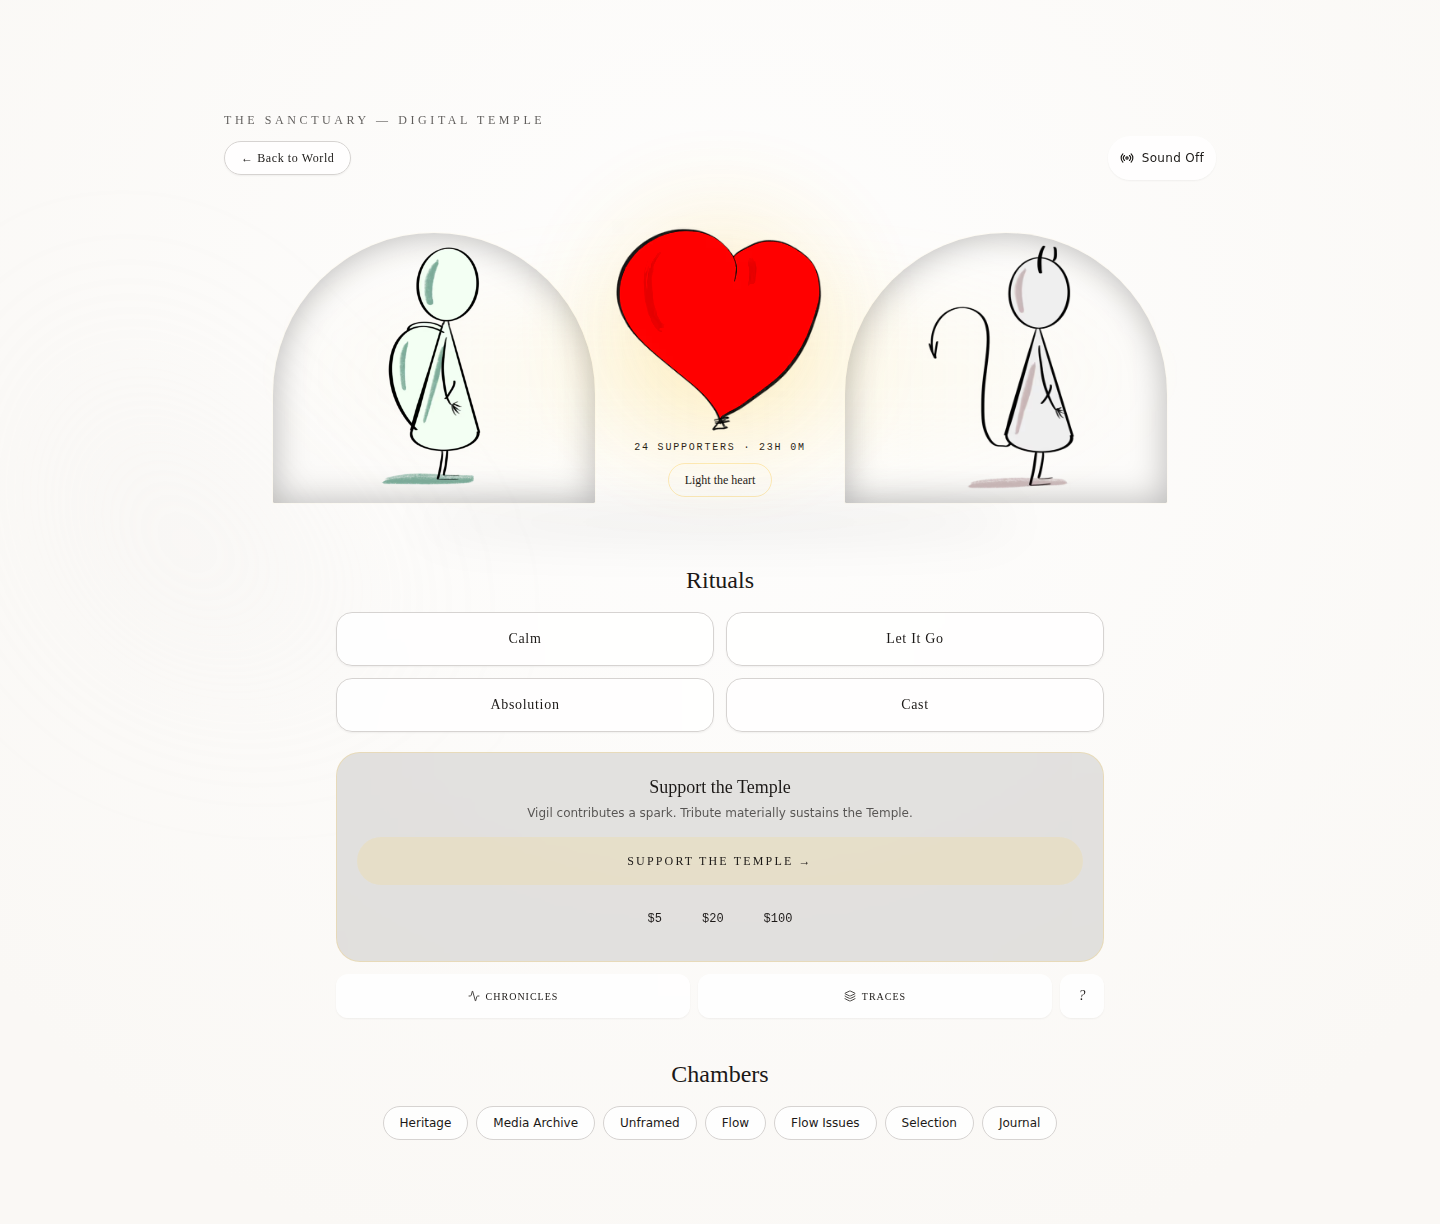
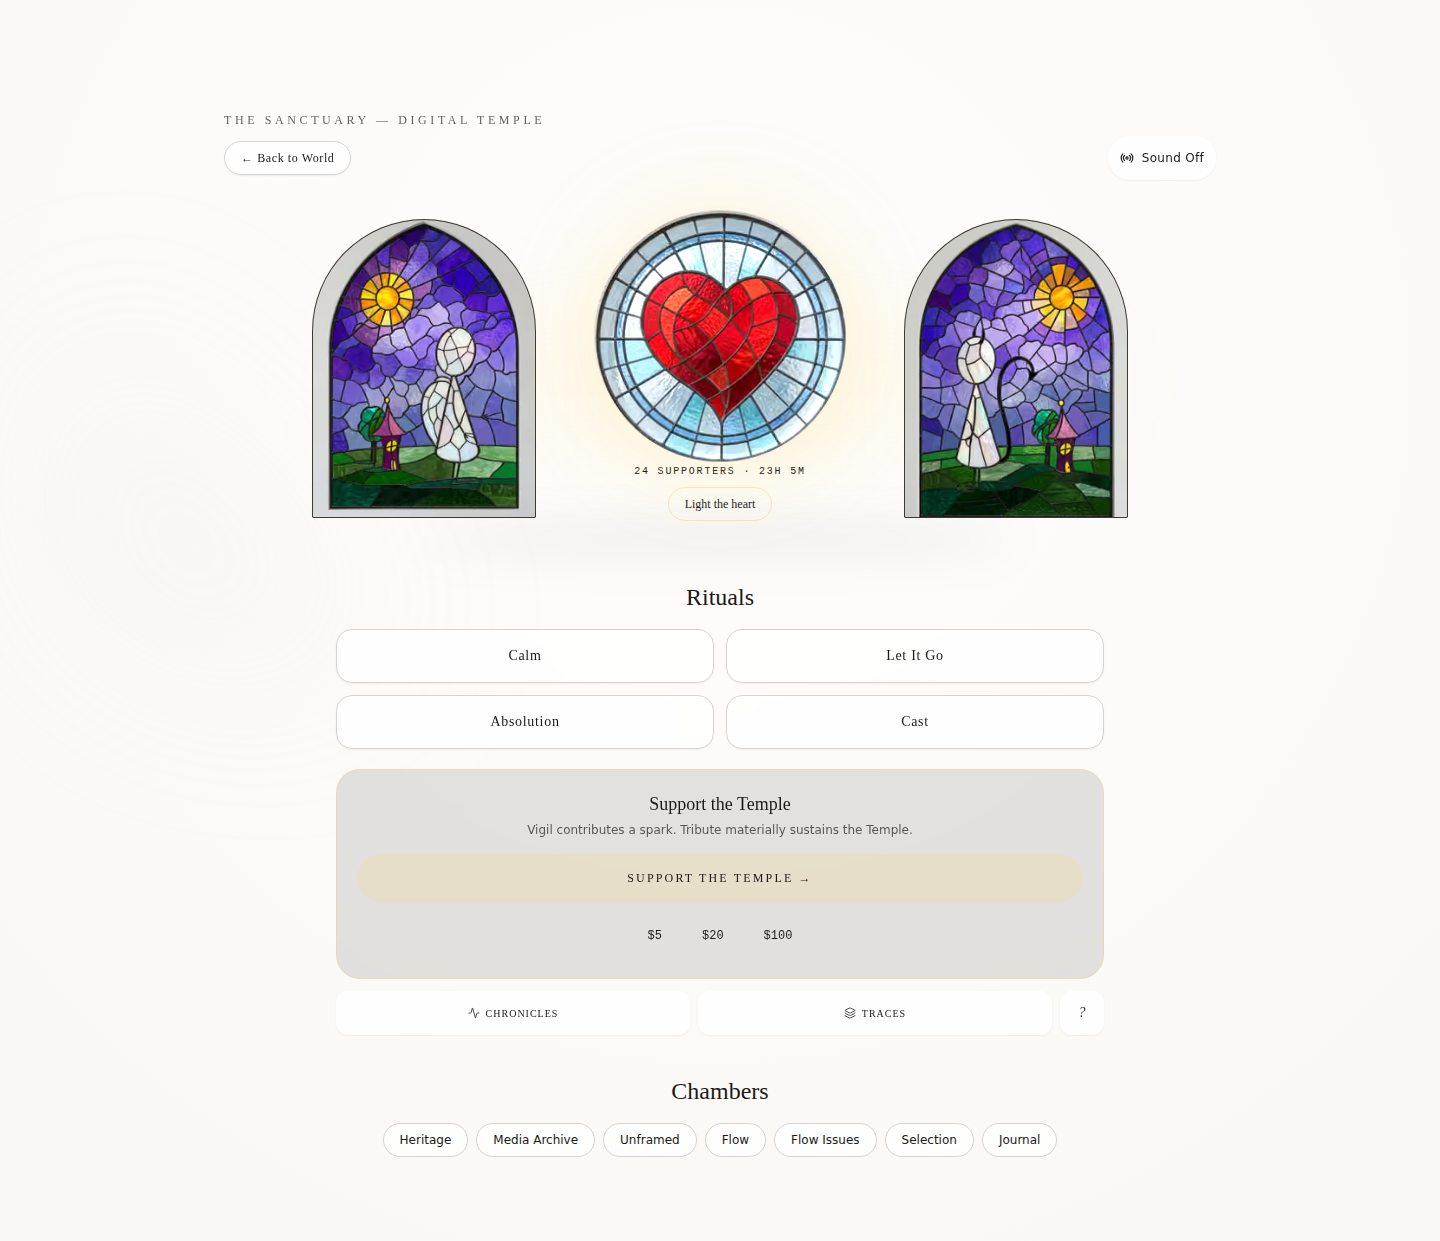
pierrot(dev): task 9143041f-0cde-4441-a910-e9c801d17ce6 attempt 2

diff --git a/app/temple/TempleClient.tsx b/app/temple/TempleClient.tsx
@@ -30,19 +30,11 @@ import RitualLink from '@/components/temple/RitualLink';
 import TempleTributeModal from '@/components/temple/TempleTributeModal';
 import { consumeLeftWithoutTrace } from '@/lib/temple/visitTrace';
 import { TEMPLE_RITUAL_LINKS } from '@/lib/temple/ritualMenu';
+import { TEMPLE_HOME_ASSETS } from '@/lib/temple/homeAssets';
 import { globalFlameRemainingMs } from '@/lib/vigil/flame';
 import { vigilHeartVisuals } from '@/lib/vigil/supporters';
 import { useVigilSupporters } from '@/hooks/useVigilSupporters';
 import { trackTributeSupportView } from '@/lib/tributes/analytics';
-
-const ASSETS = {
-  heart:
-    'https://txvkqcitalfbjytmnawq.supabase.co/storage/v1/object/public/media/Heart1.png',
-  angel:
-    'https://txvkqcitalfbjytmnawq.supabase.co/storage/v1/object/public/heartandangel/Angel1.png',
-  daemon:
-    'https://txvkqcitalfbjytmnawq.supabase.co/storage/v1/object/public/heartandangel/Daemon1.png',
-};
 
 interface TemplePost {
   id: string | number;
@@ -545,17 +537,18 @@ export default function TempleClient() {
             />
 
             <div
-              className="relative grid grid-cols-[minmax(0,1fr)_minmax(7.5rem,13rem)_minmax(0,1fr)] items-center gap-1 sm:gap-5"
-              aria-label="Heart, Angel and Demon"
+              className="relative grid grid-cols-[minmax(0,1fr)_8rem_minmax(0,1fr)] items-center gap-1 sm:grid-cols-[minmax(0,1fr)_minmax(10rem,15rem)_minmax(0,1fr)] sm:gap-4 lg:gap-6"
+              aria-label="Stained-glass angel, living heart and stained-glass demon"
             >
-              <div className="relative h-40 sm:h-64 lg:h-72">
-                <div className="absolute inset-x-0 bottom-0 top-4 overflow-hidden rounded-t-[999px] rounded-b-2xl border border-amber-100/15 bg-white/[0.035] shadow-[inset_0_0_35px_rgba(0,0,0,0.28)]">
+              <div className="relative mx-auto aspect-[3/4] w-full max-w-[6rem] sm:max-w-[13rem] lg:max-w-[14rem]">
+                <div className="absolute inset-0 overflow-hidden rounded-t-[999px] rounded-b-2xl border border-amber-100/20 bg-[#100d0c] shadow-[inset_0_0_35px_rgba(0,0,0,0.4)]">
                   <Image
-                    src={ASSETS.angel}
+                    data-testid="temple-left-panel"
+                    src={TEMPLE_HOME_ASSETS.left}
                     alt="Stained-glass Angel"
                     fill
-                    sizes="(min-width: 1024px) 288px, (min-width: 640px) 240px, 120px"
-                    className="object-contain p-1 sm:p-2"
+                    sizes="(min-width: 1024px) 224px, (min-width: 640px) 208px, 96px"
+                    className="object-contain"
                     priority
                   />
                 </div>
@@ -566,7 +559,7 @@ export default function TempleClient() {
                 aria-label={`Light the Vigil heart. ${supporterLabel} in the last 24 hours. ${vigilLabel}.`}
                 className="group flex min-w-0 flex-col items-center text-center"
               >
-                <div className="relative flex h-32 w-32 items-center justify-center sm:h-52 sm:w-52">
+                <div className="relative flex h-32 w-32 items-center justify-center sm:h-56 sm:w-56 lg:h-60 lg:w-60">
                   <div
                     aria-hidden="true"
                     className="absolute inset-2 rounded-full bg-amber-400/30 transition-all duration-700"
@@ -580,10 +573,10 @@ export default function TempleClient() {
                   <div className="relative h-full w-full">
                     <Image
                       data-testid="temple-heart"
-                      src={ASSETS.heart}
+                      src={TEMPLE_HOME_ASSETS.heart}
                       alt="Shared Temple heart"
                       fill
-                      sizes="(min-width: 640px) 208px, 128px"
+                      sizes="(min-width: 1024px) 240px, (min-width: 640px) 224px, 128px"
                       className="object-contain transition-all duration-700 group-hover:scale-105"
                       style={{
                         filter: `grayscale(${heartVisuals.grayscale}) brightness(${heartVisuals.brightness}) saturate(${heartVisuals.saturate})`,
@@ -618,14 +611,15 @@ export default function TempleClient() {
                 </span>
               </RitualLink>
 
-              <div className="relative h-40 sm:h-64 lg:h-72">
-                <div className="absolute inset-x-0 bottom-0 top-4 overflow-hidden rounded-t-[999px] rounded-b-2xl border border-amber-100/15 bg-white/[0.035] shadow-[inset_0_0_35px_rgba(0,0,0,0.28)]">
+              <div className="relative mx-auto aspect-[3/4] w-full max-w-[6rem] sm:max-w-[13rem] lg:max-w-[14rem]">
+                <div className="absolute inset-0 overflow-hidden rounded-t-[999px] rounded-b-2xl border border-amber-100/20 bg-[#100d0c] shadow-[inset_0_0_35px_rgba(0,0,0,0.4)]">
                   <Image
-                    src={ASSETS.daemon}
+                    data-testid="temple-right-panel"
+                    src={TEMPLE_HOME_ASSETS.right}
                     alt="Stained-glass Demon"
                     fill
-                    sizes="(min-width: 1024px) 288px, (min-width: 640px) 240px, 120px"
-                    className="object-contain p-1 sm:p-2"
+                    sizes="(min-width: 1024px) 224px, (min-width: 640px) 208px, 96px"
+                    className="object-contain"
                     priority
                   />
                 </div>

diff --git a/app/temple/__tests__/TempleClient.test.tsx b/app/temple/__tests__/TempleClient.test.tsx
@@ -7,6 +7,7 @@ import {
   within,
 } from '@testing-library/react';
 import TempleClient from '../TempleClient';
+import { TEMPLE_HOME_ASSETS } from '@/lib/temple/homeAssets';
 
 jest.mock('next/navigation', () => ({
   usePathname: () => '/temple',
@@ -145,6 +146,26 @@ beforeEach(() => {
 });
 
 describe('Temple home composition', () => {
+  it('renders the supplied triptych with the exact owner URLs', () => {
+    render(<TempleClient />);
+
+    expect(screen.getByTestId('temple-heart')).toHaveAttribute(
+      'src',
+      TEMPLE_HOME_ASSETS.heart
+    );
+    expect(screen.getByTestId('temple-left-panel')).toHaveAttribute(
+      'src',
+      TEMPLE_HOME_ASSETS.left
+    );
+    expect(screen.getByTestId('temple-right-panel')).toHaveAttribute(
+      'src',
+      TEMPLE_HOME_ASSETS.right
+    );
+    expect(screen.getByAltText('Stained-glass Angel')).toBeInTheDocument();
+    expect(screen.getByAltText('Stained-glass Demon')).toBeInTheDocument();
+    expect(screen.getByAltText('Shared Temple heart')).toBeInTheDocument();
+  });
+
   it('renders the live supporter count on the heart', () => {
     render(<TempleClient />);
 

diff --git a/lib/temple/homeAssets.ts b/lib/temple/homeAssets.ts
@@ -1,0 +1,20 @@
+/**
+ * Owner-supplied artwork for the Temple homepage triptych.
+ *
+ * These are the three files uploaded to the public `heartandangel/Temple`
+ * folder for this iteration. They must be rendered as-is: the homepage never
+ * draws, recolours or generates replacement stained-glass artwork.
+ *
+ * Keep the URLs literal so the composition can be audited against the owner's
+ * supplied assets without guessing which media file is on screen.
+ */
+export const TEMPLE_HOME_ASSETS = {
+  heart:
+    'https://txvkqcitalfbjytmnawq.supabase.co/storage/v1/object/public/heartandangel/Temple/IMG_1775.png',
+  left:
+    'https://txvkqcitalfbjytmnawq.supabase.co/storage/v1/object/public/heartandangel/Temple/IMG_1776.jpeg',
+  right:
+    'https://txvkqcitalfbjytmnawq.supabase.co/storage/v1/object/public/heartandangel/Temple/IMG_1777.jpeg',
+} as const;
+
+export type TempleHomeAsset = keyof typeof TEMPLE_HOME_ASSETS;

diff --git a/lib/temple/__tests__/homeAssets.test.ts b/lib/temple/__tests__/homeAssets.test.ts
@@ -1,0 +1,14 @@
+import { TEMPLE_HOME_ASSETS } from '@/lib/temple/homeAssets';
+
+const TEMPLE_FOLDER =
+  'https://txvkqcitalfbjytmnawq.supabase.co/storage/v1/object/public/heartandangel/Temple/';
+
+describe('Temple home artwork', () => {
+  it('uses the exact owner-supplied files from the Temple folder', () => {
+    expect(TEMPLE_HOME_ASSETS).toEqual({
+      heart: `${TEMPLE_FOLDER}IMG_1775.png`,
+      left: `${TEMPLE_FOLDER}IMG_1776.jpeg`,
+      right: `${TEMPLE_FOLDER}IMG_1777.jpeg`,
+    });
+  });
+});

diff --git a/artifacts/temple-home/README.md b/artifacts/temple-home/README.md
@@ -1,0 +1,24 @@
+# Temple homepage screenshots
+
+Captured from the production build (`next build` + `next start`) of this
+attempt.
+
+| File | Viewport | Notes |
+| --- | --- | --- |
+| `temple-desktop.png` | 1440 × 1000 | desktop browser |
+| `temple-mobile.png` | 390 × 844 | mobile browser |
+| `temple-telegram.png` | 390 × 844 | Telegram WebApp `initData` present |
+
+The authoritative `/api/vigil/state` response was replaced with a visual test
+fixture of **24 supporters** so the heart intensity and label are representative.
+The page still reads the count from that server route; no client-side counting
+or hard-coded count is used in the application.
+
+Artwork, mapped exactly to the owner-supplied files:
+
+- centre heart: `https://txvkqcitalfbjytmnawq.supabase.co/storage/v1/object/public/heartandangel/Temple/IMG_1775.png`
+- left panel: `https://txvkqcitalfbjytmnawq.supabase.co/storage/v1/object/public/heartandangel/Temple/IMG_1776.jpeg`
+- right panel: `https://txvkqcitalfbjytmnawq.supabase.co/storage/v1/object/public/heartandangel/Temple/IMG_1777.jpeg`
+
+All three are rendered as-is with `object-contain`, preserving their aspect
+ratios. No generated or recoloured stained-glass artwork was added.
